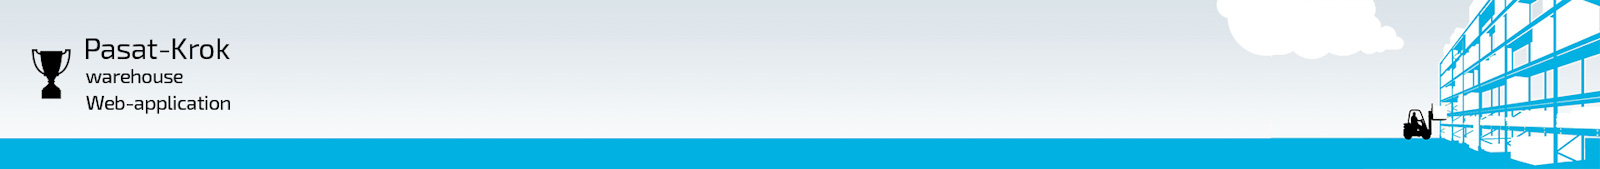
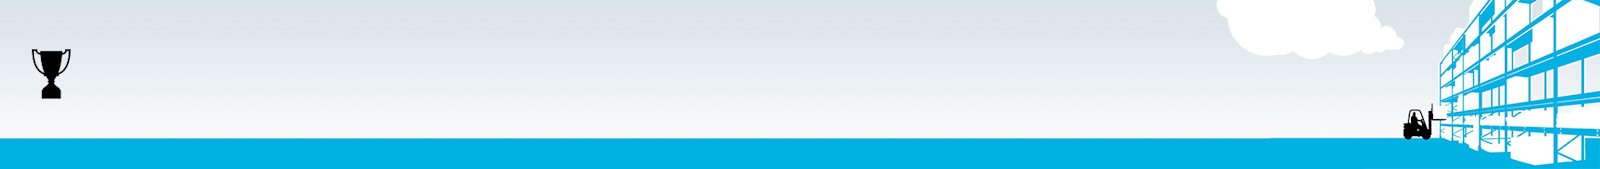
refactoring code in html

Changed region(s): [[0.0312, 0.2367, 0.1562, 0.355], [0.0312, 0.5621, 0.1562, 0.6509], [0.0312, 0.4142, 0.125, 0.503]]

diff --git a/HTML/style.css b/HTML/style.css
@@ -58,6 +58,36 @@ select {
     cursor: url(cursor/NormalSelect.cur), default;
 }
 
+.sp1 {
+ position:absolute;
+    font-family: Exo2;
+    font-size: 22pt;
+    top:30px;   
+    left:70px;
+}
+.sp2 {
+ position:absolute;
+    font-family: Exo2;
+    font-size: 16pt;
+    top:60px;   
+    left:70px;
+}
+.sp3 {
+ position:absolute;
+    font-family: Exo2;
+    font-size: 16pt;
+    top:85px;   
+    left:70px;
+}
+.sp4 {
+ position:absolute;
+    top:70px;   
+    right:220px;
+}
+.round {
+    border-radius: 100px; /* Радиус скругления */
+    box-shadow: 0 0 0 3px blue, 0 0 13px #333; /* Параметры теней */
+   }
 .button,
 .btn-edit,.btn-edit-user {
     background-color: darkgreen;

diff --git a/HTML/index.html b/HTML/index.html
@@ -26,8 +26,14 @@
             <br>Зачекайте
             <br><small>сторінка завантажується</small></div>
     </div>
-
+    <div class="txtimg">
     <img src="background1.jpg" width="100%" height="169px">
+        <span class="sp1">Pasat-Krok</span>
+        <span class="sp2">warehouse</span>
+        <span class="sp3">Web-application</span>
+        <span class="sp4"><img src="user.png" width="50px" height="50px" class="round"></span>
+        
+    </div>
     <!--    <a href="adminpage.html"><img src="adminlink.png" width="2%">ADMIN</a>-->
     <div class="view">
         <table class="table_blur" id="partsTable">

diff --git a/HTML/adminpage.html b/HTML/adminpage.html
@@ -28,9 +28,12 @@
         <small>сторінка завантажується</small>
     </div>
 </div>
-
+<div class="txtimg">
 <img src="background1.jpg" width="100%" height="169px">
-
+         <span class="sp1">Pasat-Krok</span>
+        <span class="sp2">warehouse</span>
+        <span class="sp3">Web-application</span>
+</div>
 <div class="view">
     <table class="table_blur" id="firmstypesTable">
         <thead>
